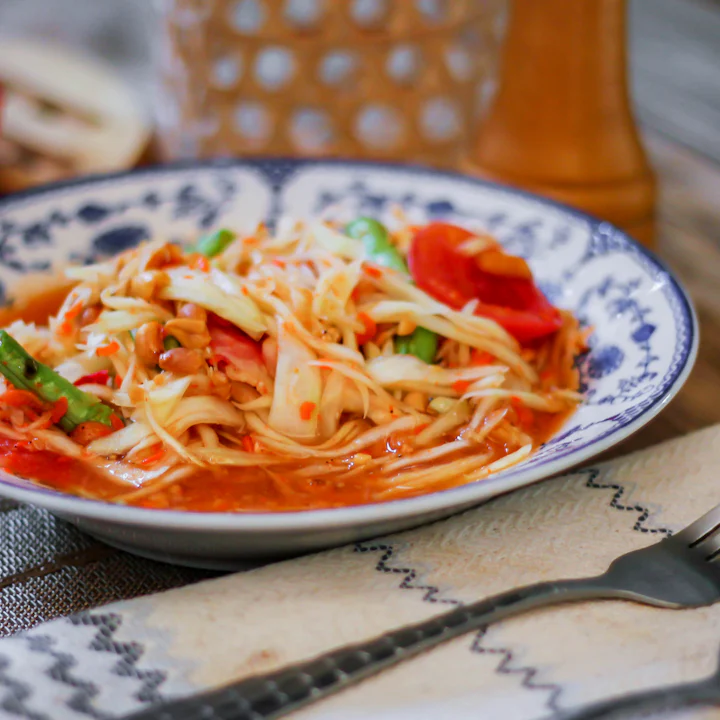
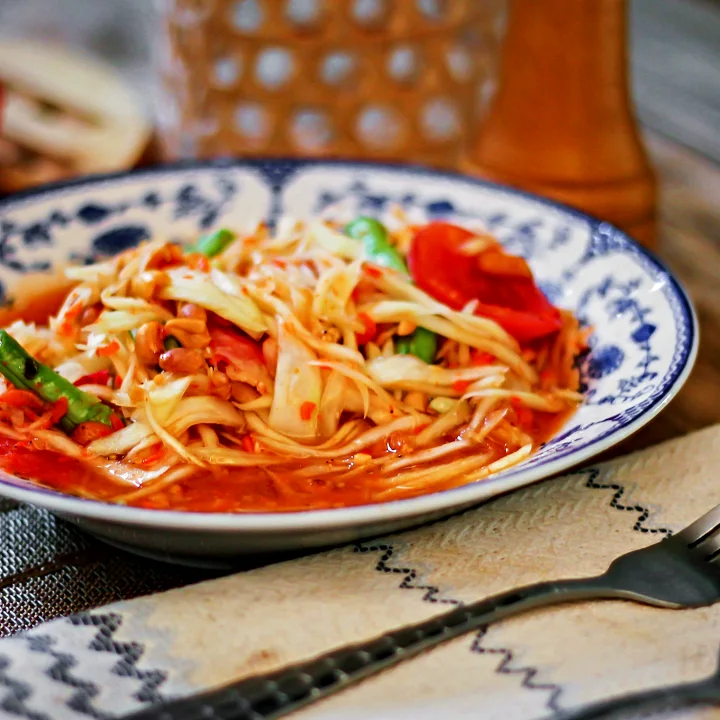
Menus QR : photos des plats en HD retouchées (4K source, cartes 4:5 + fiche 4:3), grille 2 colonnes sur ordinateur
Claude-Session: https://claude.ai/code/session_01C1ey47aaS4Th7SGUvJQcLG

diff --git a/menus/assets/menu.js b/menus/assets/menu.js
@@ -108,6 +108,17 @@
   function price(p) { return M.currency === "฿" ? p + " ฿" : p + " " + M.currency; }
   function aname(n) { var a = M.allergens && (M.allergens[lang] || M.allergens.en); return a ? a[n - 1] : n; }
   function img(base, w) { return M.photoOne ? base + ".webp" : base + "-" + w + ".webp"; }
+  // photoHD: graded 4K-sourced photos in two crops: portrait 4:5 for the cards (-c-800/-c-1200), landscape 4:3 for the dish sheet (-w-1280/-w-2048)
+  function cardPic(d, only) {
+    if (!M.photoHD) return '<img src="' + img(d.img, 640) + '" srcset="' + img(d.img, 640) + " 640w, " + img(d.img, 1280) + ' 1280w" sizes="(min-width:760px) 340px, 80vw" alt="" loading="lazy" decoding="async">';
+    var c = d.img + "-c-800.webp 800w, " + d.img + "-c-1200.webp 1200w", w = d.img + "-w-1280.webp 1280w, " + d.img + "-w-2048.webp 2048w";
+    return "<picture>" + (only ? '<source media="(min-width:760px)" srcset="' + w + '" sizes="680px">' : "") +
+      '<img src="' + d.img + '-c-800.webp" srcset="' + c + '" sizes="(min-width:760px) 340px, 80vw" alt="" loading="lazy" decoding="async"></picture>';
+  }
+  function sheetPic(d) {
+    if (!M.photoHD) return '<img src="' + img(d.img, 1280) + '" alt="' + esc(title(d)) + '">';
+    return '<img src="' + d.img + '-w-1280.webp" srcset="' + d.img + "-w-1280.webp 1280w, " + d.img + '-w-2048.webp 2048w" sizes="(min-width:760px) 560px, 100vw" alt="' + esc(title(d)) + '">';
+  }
   // Menus written in Thai script: tourists read the dish name in their own language first, the Thai name below.
   function title(d) { return M.localTitles && lang !== ol && d.sn && d.sn[lang] ? d.sn[lang] : d.n; }
   function sub(d) { return title(d) !== d.n ? d.n : ""; }
@@ -151,8 +162,10 @@
       if (si === 0) h.push('<p class="alb">' + esc(t("alb")) + "</p>");
       if (feat.length) {
         h.push('<div class="feat" data-feat>');
-        feat.forEach(function (d) {
-          h.push('<button type="button" class="card rv" data-dish="' + d.id + '"><img src="' + img(d.img, 640) + '" srcset="' + img(d.img, 640) + " 640w, " + img(d.img, 1280) + ' 1280w" sizes="(min-width:760px) 340px, 80vw" alt="" loading="lazy" decoding="async">' +
+        feat.forEach(function (d, fi) {
+          // desktop: two-column grid; with an odd count the first card spans both columns in landscape
+          var lead = feat.length === 1 || (fi === 0 && feat.length % 2 === 1);
+          h.push('<button type="button" class="card rv' + (lead ? " card--lead" : "") + '" data-dish="' + d.id + '">' + cardPic(d, lead) +
             '<span class="card__b"><span class="card__k">' + esc(tr(s.t)) + '</span><span class="card__n">' + esc(title(d)) + "</span>" + (sub(d) ? '<span class="card__o" lang="' + ol + '">' + esc(sub(d)) + "</span>" : "") + '<span class="card__f"><span class="card__p">' + price(d.p) + '</span><span class="card__go">' + esc(t("see")) + " " + ICO.arrow.replace("<svg", '<svg width="14" height="14"') + "</span></span></span></button>");
         });
         h.push("</div>");
@@ -309,7 +322,7 @@
     sh.classList.remove("sheet--photo");
     if (kind === "dish") {
       var d = byId[id], s = M.sections[d._s], dd = desc(d), hs = hits(d), od = d.d && d.d[ol] && lang !== ol ? d.d[ol] : "";
-      if (d.img) { sh.classList.add("sheet--photo"); h += '<div class="sd__ph"><img src="' + img(d.img, 1280) + '" alt="' + esc(title(d)) + '"></div>'; }
+      if (d.img) { sh.classList.add("sheet--photo"); h += '<div class="sd__ph">' + sheetPic(d) + "</div>"; }
       h += '<p class="sd__k">' + esc(tr(s.t)) + '</p><h3 class="sd__n">' + esc(title(d)) + "</h3>" + (sub(d) ? '<p class="sd__t" lang="' + ol + '">' + esc(sub(d)) + "</p>" : "") + (d.hot ? '<p class="sd__hot">' + hot(d) + "</p>" : "") + (dd ? '<p class="sd__d">' + esc(dd) + "</p>" : "") +
         (od && od !== dd ? '<p class="sd__o" lang="' + ol + '">' + esc(od) + "</p>" : "");
       if (d.a && d.a.length) h += '<p class="sd__h">' + esc(t("alls")) + '</p><div class="sd__al">' + d.a.map(function (n) { return '<span class="' + (hs.indexOf(n) > -1 ? "warn" : "") + '">' + AI[n - 1] + " " + esc(aname(n)) + "</span>"; }).join("") + "</div>";

diff --git a/menus/mae-lek/index.html b/menus/mae-lek/index.html
@@ -12,11 +12,11 @@
 <link rel="preconnect" href="https://fonts.googleapis.com">
 <link rel="preconnect" href="https://fonts.gstatic.com" crossorigin>
 <link href="https://fonts.googleapis.com/css2?family=Fraunces:ital,opsz,wght@0,9..144,300;0,9..144,400;0,9..144,500;1,9..144,400&family=Jost:wght@400;500;600;700&family=Noto+Sans+Thai:wght@400;500;600;700&display=swap" rel="stylesheet">
-<link rel="stylesheet" href="../assets/menu.css?v=6">
+<link rel="stylesheet" href="../assets/menu.css?v=8">
 </head>
 <body>
 <div id="menu"><noscript><p style="padding:40px 20px;text-align:center">Mae Lek · Menu — please enable JavaScript or ask our staff.</p></noscript></div>
-<script src="menu.js?v=6"></script>
-<script src="../assets/menu.js?v=6"></script>
+<script src="menu.js?v=8"></script>
+<script src="../assets/menu.js?v=8"></script>
 </body>
 </html>

diff --git a/menus/assets/menu.css b/menus/assets/menu.css
@@ -287,9 +287,11 @@ body.alg .alb{display:block}
 
 @media (min-width:760px){
   :root{--g:32px}
-  .card{width:340px}
-  .feat .card:only-child{width:min(100%,560px);aspect-ratio:16/11}
-  .feat{overflow:visible;flex-wrap:wrap}
+  .feat{display:grid;grid-template-columns:1fr 1fr;gap:14px;overflow:visible;margin-inline:0;padding:0}
+  .card{width:auto}
+  .card--lead{grid-column:1/-1;aspect-ratio:16/10}
+  .dots2{display:none}
+  .feat .card:only-child{width:auto;aspect-ratio:16/10}
   .open__top{padding-top:calc(var(--st) + 54px)}
   .langs{grid-template-columns:repeat(6,minmax(0,1fr));width:min(760px,100%)}
 }

diff --git a/menus/mae-lek/menu.js b/menus/mae-lek/menu.js
@@ -20,6 +20,7 @@ window.NM_MENU = {
  "staffLang": "th",
  "localTitles": true,
  "photoOne": true,
+ "photoHD": true,
  "spice": true,
  "heroMobile": "hero-m.webp",
  "heroWide": "hero.webp",

diff --git a/menus/assets/dishes/CREDITS.md b/menus/assets/dishes/CREDITS.md
@@ -6,3 +6,9 @@ Une ligne par photo : fichier · page Unsplash · photographe.
 ## Autres licences libres (via Openverse)
 
 - `som-tam-1024.webp`, `som-tam-640.webp` · « Som tam! », WordRidden · https://www.flickr.com/photos/97844767@N00/7794345124 · CC BY 2.0 (créditer « Photo : WordRidden, CC BY 2.0 »)
+
+## Mae Lek (menus/mae-lek/) — photos HD retouchées (2026-10-27)
+
+Originaux Unsplash en 4000 px (licence Unsplash, IDs listés dans `street-food/README.md`), retouchés par
+`grade.py` (niveaux, balance chaude, courbe douce, vibrance, clarté, vignette légère) et recadrés en deux
+formats : `-c-800/-c-1200` (portrait 4:5, cartes) et `-w-1280/-w-2048` (paysage 4:3, fiche plat).
